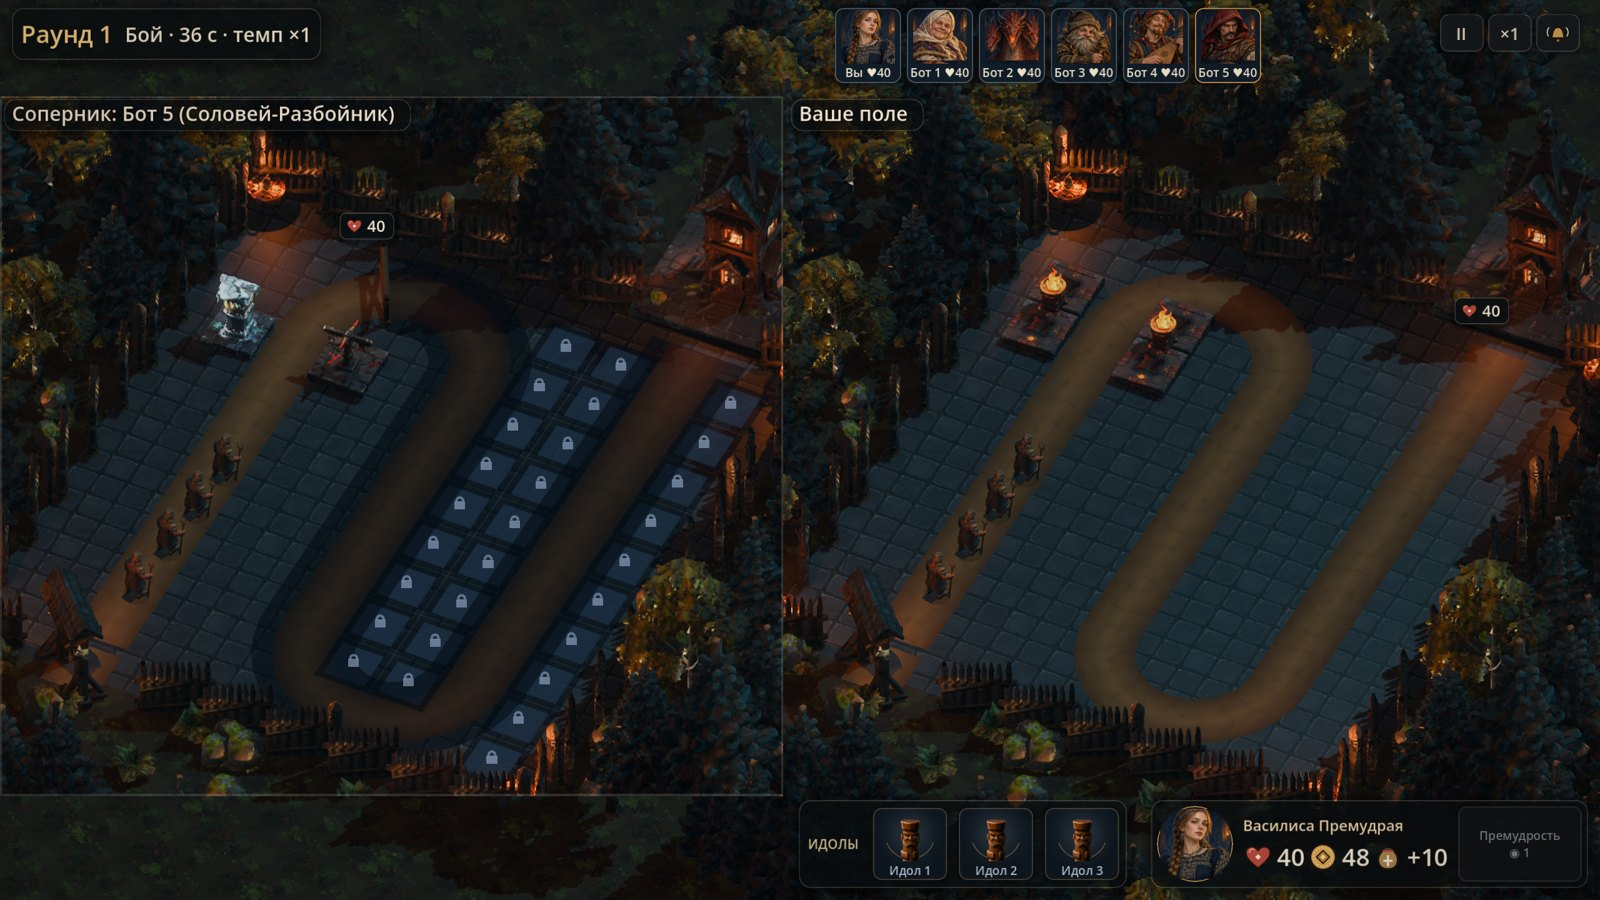
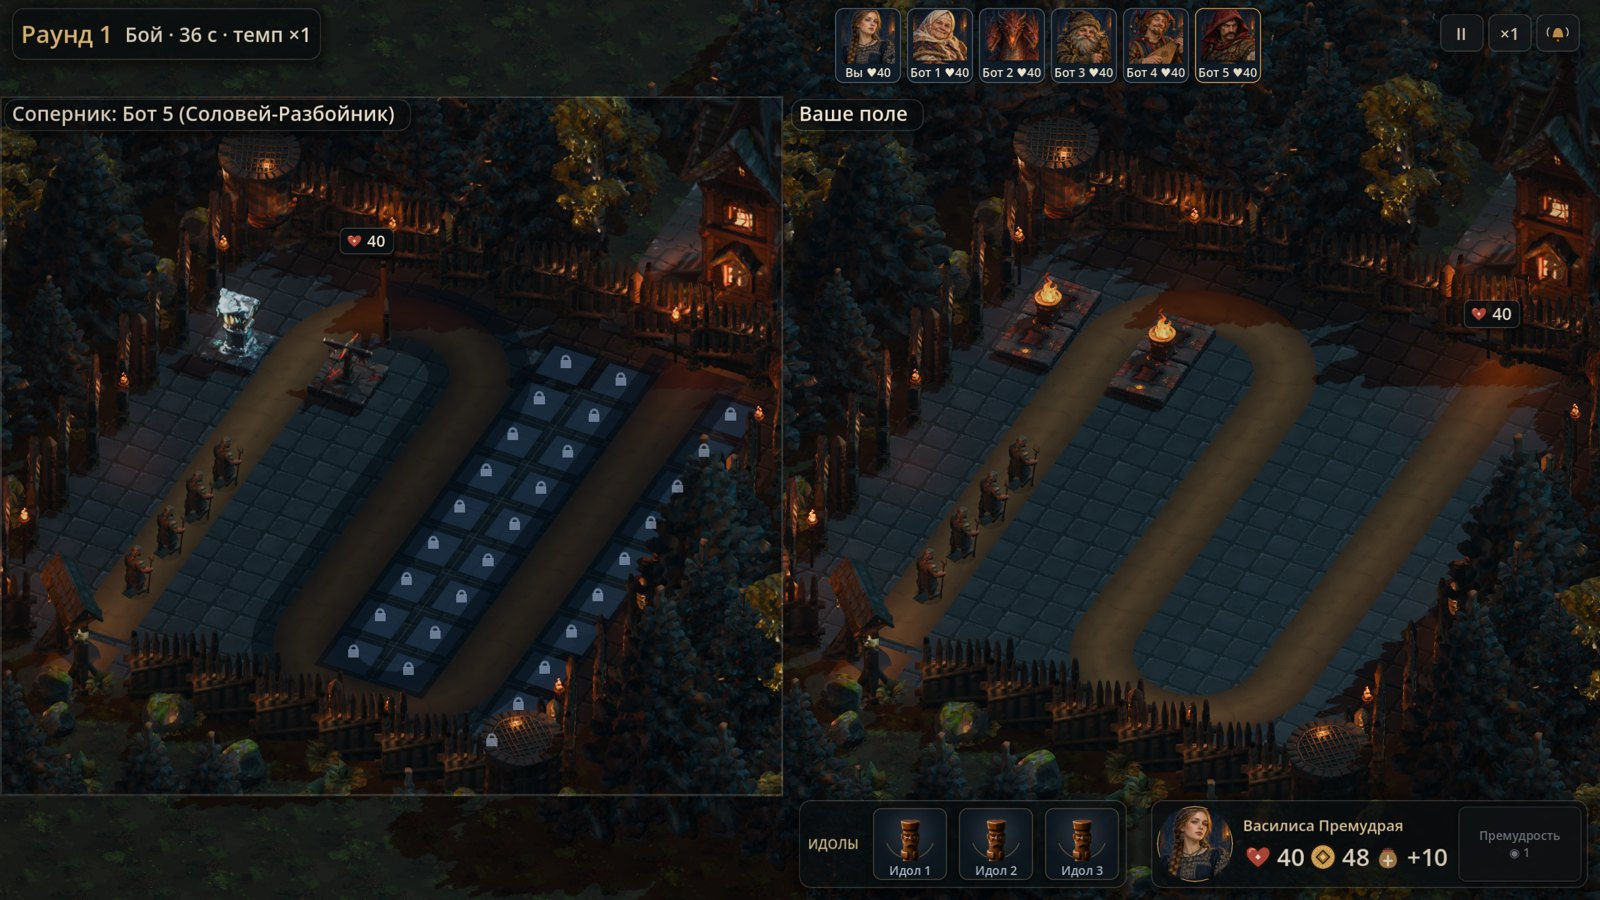
3D нуар: финальные кадры игры, сравнение арены и отчёт

diff --git a/new_concept/final/report.html b/new_concept/final/report.html
@@ -18,7 +18,7 @@ table{border-collapse:collapse;width:100%;font-size:14px}td,th{padding:4px 8px;b
 th{color:var(--amber);font-weight:600}
 </style></head><body><main>
 <h1>Застава — ночная 3D-сессия</h1><p class="sub">Славянский нуар: модели по концептам, арена, интерфейс · 4 ноября 2026</p>
-<div class="cols"><div class="panel"><h3>Сделано</h3><ul><li>Новый метод: форма модели — нейросеть Hunyuan3D-2 (локально в ComfyUI), покраска — проекция самого концепта. Совпадение силуэта выше старого почти у всех моделей.</li><li>Переделаны все 22 постройки, юниты, идолы, герои, терем; старые модели не тронуты (assets/noir), новые — assets/noir_h3d.</li><li>Арена «нуар»: мощёный двор, дорога, частокол с воротами у входа дороги, жаровни, терем в конце дороги, лес — всё из моделей того же метода по новым концептам реквизита.</li><li>Картинка больше не мыльная: 3D рисуется в разрешении экрана (раньше — 1600×900 и растяжение).</li><li>Интерфейс: дымчатое почти чёрное стекло, тонкая светлая кромка, янтарные акценты.</li></ul></div>
+<div class="cols"><div class="panel"><h3>Сделано</h3><ul><li>Новый метод: форма модели — нейросеть Hunyuan3D-2 (локально в ComfyUI), покраска — проекция самого концепта. Совпадение силуэта выше старого почти у всех моделей.</li><li>Переделаны все 22 постройки, юниты, идолы, герои, терем; старые модели не тронуты (assets/noir), новые — assets/noir_h3d.</li><li>Арена «нуар»: мощёный двор, дорога, частокол с воротами у входа дороги, жаровни, терем в конце дороги, лес — всё из моделей того же метода по новым концептам реквизита.</li><li>Значки идолов в интерфейсе — рендеры новых моделей; своя плита постройки под всеми клетками фигуры; срубы-башенки по углам стены и факелы вдоль неё; юниты со скелетом на плавных весах.</li><li>Картинка больше не мыльная: 3D рисуется в разрешении экрана (раньше — 1600×900 и растяжение).</li><li>Интерфейс: дымчатое почти чёрное стекло, тонкая светлая кромка, янтарные акценты.</li></ul></div>
 <div class="panel"><h3>Не успели</h3><ul><li>Обе арены в одном мире с плавной камерой подготовка → бой (нужна переделка экрана матча, его параллельно правит Codex).</li><li>Сборка: нет пресета и шаблонов экспорта (open_questions.md); игра запускается godot --path .</li><li>Дух (spirit): нейросеть превратила огоньки вокруг него в бесформенные куски (IoU 0,44 при трёх сидах) — в игре пока прежняя модель; нужен концепт без летающих огней или ручная доводка.</li><li>Анимации кроме походки; идолы-варианты и герои пока не показываются в 3D-матче (модели готовы).</li></ul></div>
 <div class="panel"><h3>Проверить автору</h3><ul><li>Оставить новые модели (Hunyuan3D) или вернуть старые — по сравнениям ниже; можно по одной.</li><li>Ракурс камеры арены (ниже и с угла, как на концепте) и терем у частокола в конце дороги.</li><li>Обратная сторона моделей — рисунок с соседних сторон (постройки) или размытый (персонажи).</li></ul></div></div>
 <h2>Игра</h2><div class="grid"><figure><img src='game_arena_compare.jpg' alt='game_arena_compare'><figcaption>game_arena_compare</figcaption></figure><figure><img src='game_battle.jpg' alt='game_battle'><figcaption>game_battle</figcaption></figure><figure><img src='game_prep.jpg' alt='game_prep'><figcaption>game_prep</figcaption></figure></div>

diff --git a/tools/blender/noir/report_html.py b/tools/blender/noir/report_html.py
@@ -20,6 +20,8 @@ SUMMARY = {
         "Переделаны все 22 постройки, юниты, идолы, герои, терем; старые модели не тронуты (assets/noir), новые — assets/noir_h3d.",
         "Арена «нуар»: мощёный двор, дорога, частокол с воротами у входа дороги, жаровни, терем в конце дороги, лес — "
         "всё из моделей того же метода по новым концептам реквизита.",
+        "Значки идолов в интерфейсе — рендеры новых моделей; своя плита постройки под всеми клетками фигуры; "
+        "срубы-башенки по углам стены и факелы вдоль неё; юниты со скелетом на плавных весах.",
         "Картинка больше не мыльная: 3D рисуется в разрешении экрана (раньше — 1600×900 и растяжение).",
         "Интерфейс: дымчатое почти чёрное стекло, тонкая светлая кромка, янтарные акценты.",
     ],

diff --git a/new_concept/REPORT_3D.md b/new_concept/REPORT_3D.md
@@ -9,6 +9,8 @@
   общий лист — `new_concept/final/all.jpg`; кадры игры — `new_concept/final/game_prep.png`, `game_battle.png`.
 - **Арена «нуар»:** мощёный двор, дорога, частокол, ворота у входа дороги, жаровни, терем в конце дороги, лес
   (реквизит — тем же методом по новым концептам `new_concept/arena_props/`). Камера ниже и с угла.
+- **Ещё:** значки идолов в слотах — рендеры новых моделей; своя плита постройки под всеми клетками фигуры;
+  срубы-башенки по углам стены, факелы, тёплый свет у ворот и терема; юниты на плавных весах скелета, дух не удался.
 - **Мыльная картинка исправлена:** 3D рисуется в разрешении экрана. **Интерфейс:** дымчатое стекло, янтарь.
 - **Не сделано:** две арены в одном мире с плавной камерой (экран матча параллельно правит Codex),
   сборка (нет пресета и шаблонов экспорта — open_questions.md), анимации кроме походки, герои/идолы в 3D-матче.
